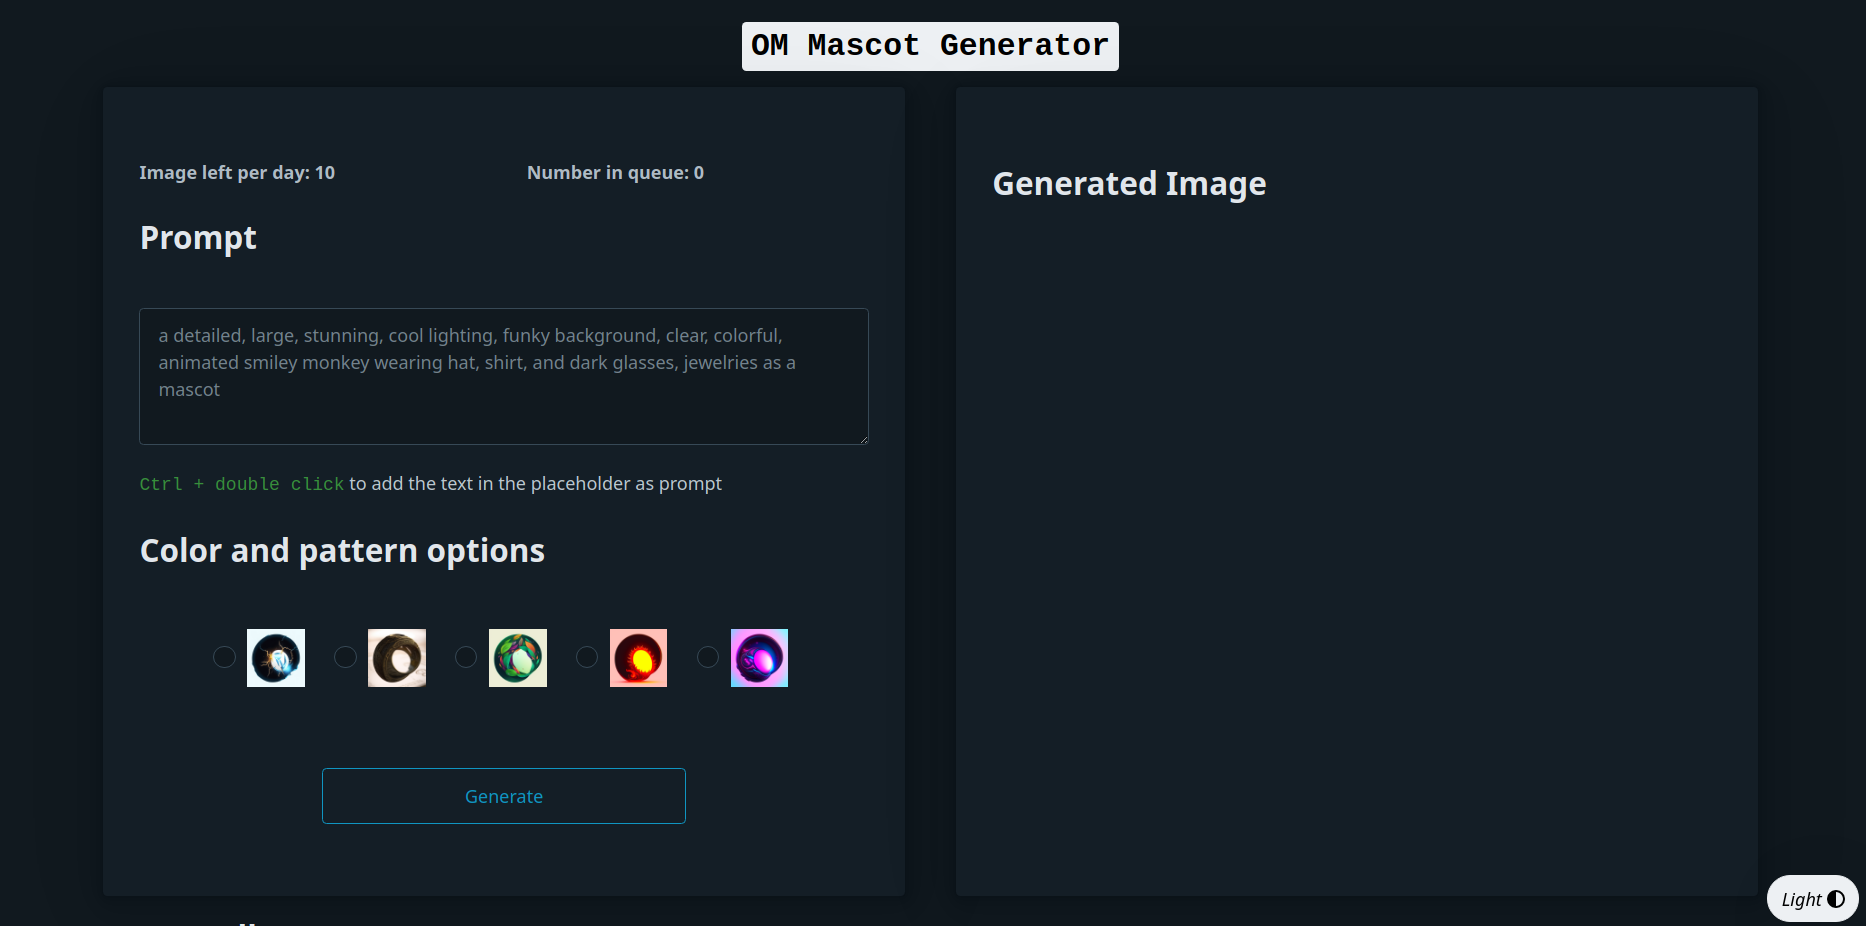
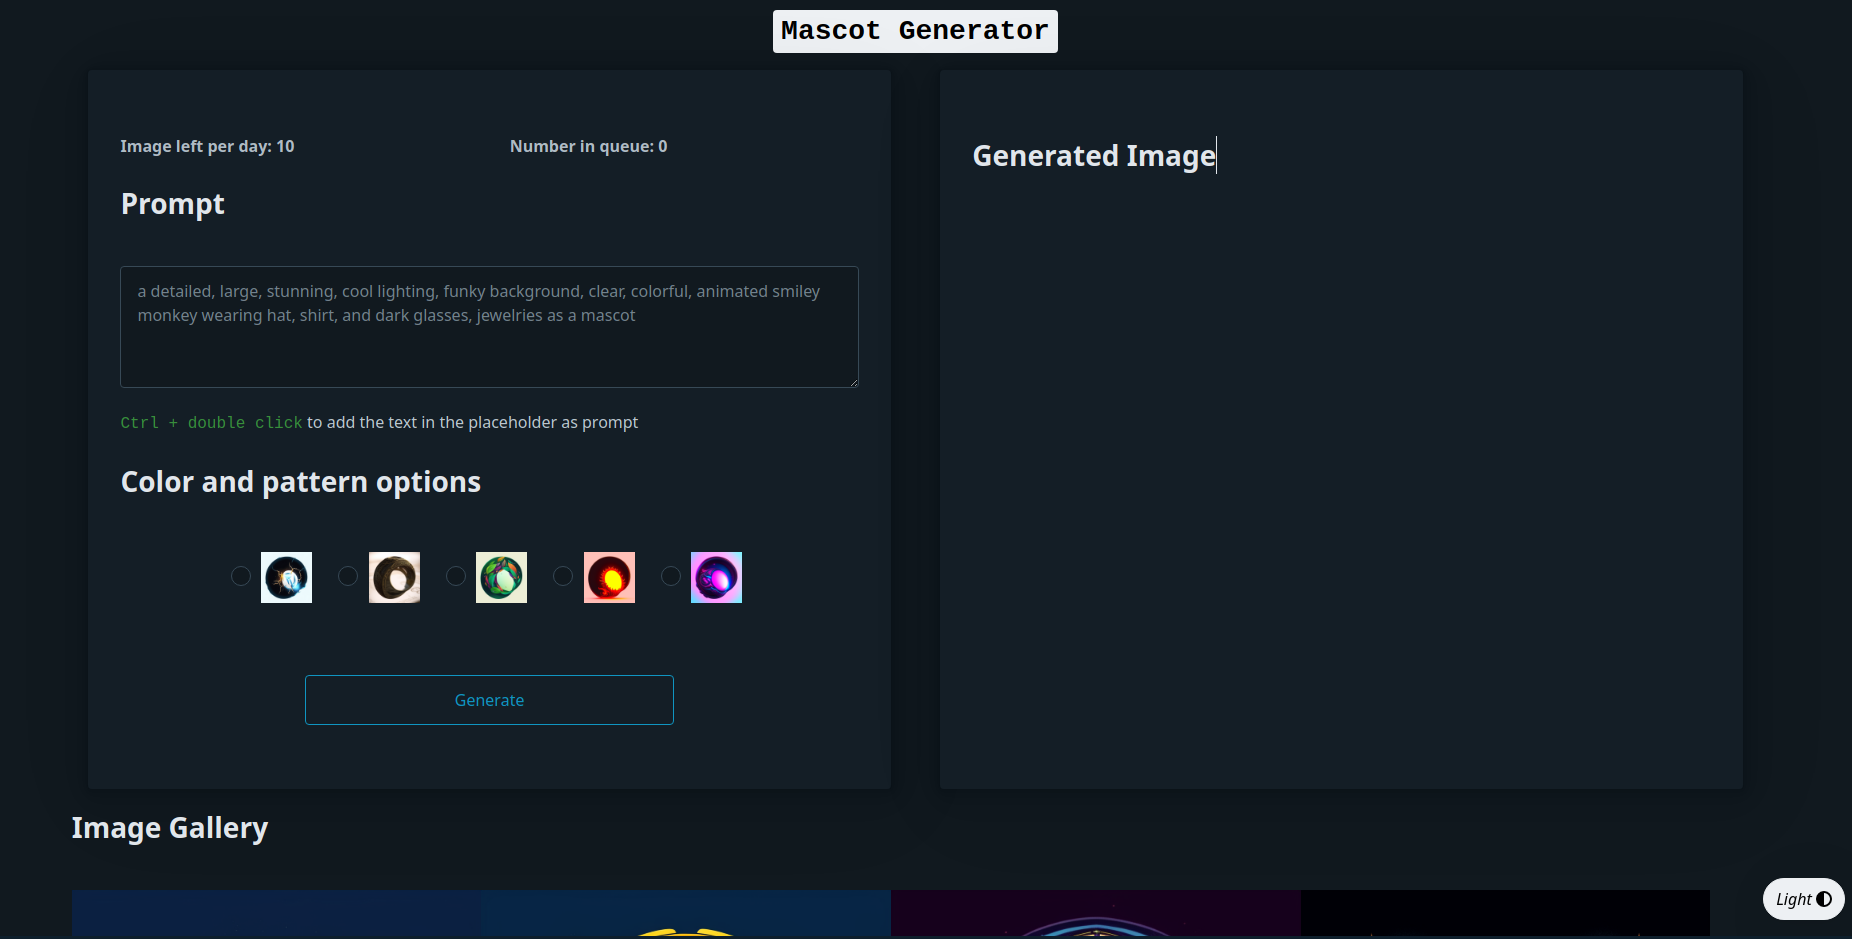
update readme and requirements

diff --git a/frontend/index.html b/frontend/index.html
@@ -8,12 +8,12 @@
     <meta name="version" content="1" />
     <link rel="stylesheet" href="https://cdn.jsdelivr.net/npm/@picocss/pico@1/css/pico.min.css" />
     <link rel="stylesheet" href="style.css" />
-    <title>OM Mascot Generator</title>
+    <title>Mascot Generator</title>
 </head>
 
 <body>
     <main>
-        <h1 style="margin:auto;text-align: center;"><kbd>OM Mascot Generator</kbd></h1>
+        <h1 style="margin:auto;text-align: center;"><kbd>Mascot Generator</kbd></h1>
         <div class="grid">
             <article>
                 <div class="parent">

diff --git a/README.md b/README.md
@@ -1,6 +1,6 @@
 # Mascot Generator
 
-The Mascot Generator is a project that leverages the power of Kandinsky 2.2 to create a text-to-image mascot generator specifically designed for the Mascot Design competitors at One Mount. The project aims to provide a helping hand to individuals who have creative ideas but lack the necessary design skills to bring their mascots to life.
+The Mascot Generator is a project that leverages the power of Kandinsky 2.2 to create a text-to-image mascot generator specifically designed for the Mascot Design competitors at our company. The project aims to provide a helping hand to individuals who have creative ideas but lack the necessary design skills to bring their mascots to life.
 
 ## Table of Contents
 1. Overview 
@@ -40,7 +40,7 @@ For the frontend, we have developed a simple user interface using PicoCSS [[3]] 
 5. Have fun!
 
 ## 3. Examples
-Here are some images of the mascot generated by One Mount employees. For more images, you can view them in the Image Gallery section on web app.
+Here are some images of the mascot generated by our company's employees. For more images, you can view them in the Image Gallery section on web app.
 
 
 <img src="frontend/images/0df39cc6e5cfc5f91d63bc42412babd3/1699934262.png" width="300"/><img src="frontend/images/3f82228bccf33a1885ff193869f8ac03/1699938224.png" 
